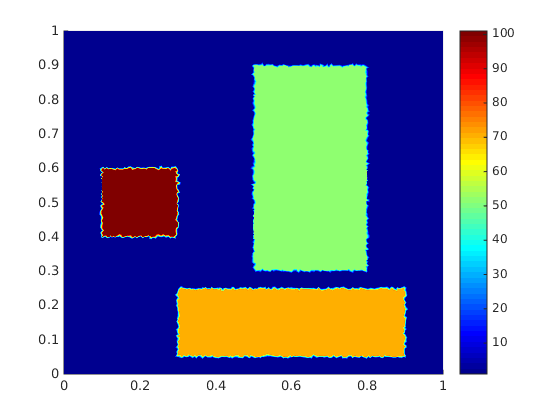
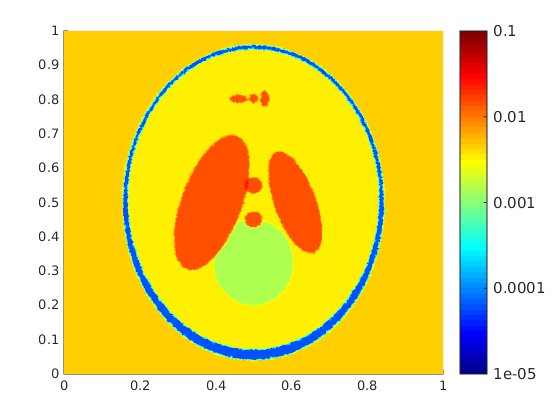
update many palces

diff --git a/demo.m b/demo.m
@@ -1,12 +1,13 @@
 %% Parameters
 nodes = [0 1 1 0;0 0 1 1];
-femm_opt = struct('deg', 1, 'qdeg',4, 'min_area', 1e-4, 'edge', nodes);
+femm_opt = struct('deg', 1, 'qdeg',4, 'min_area', 2e-5, 'edge', nodes);
 opt = struct('femm_opt', femm_opt, 'reg', 1e-4, 'beta', 0.02);
 
 % Acousto-Eletric-Modulation object.
 aem_obj = aem(opt);
 
 noise = (2 * rand(aem_obj.cache.n, 2) - 1);
+
 
 
 %% MAIN PROGRAM
@@ -21,21 +22,37 @@ if OPTIMIZE
     [v2_new, v2_new_bd, ~] = selectNeumann(aem_obj, v1, @neumann2);% compute the suitable v2 instead of prescribed one.
     v2_new = v2_new - mean(v2_new);                                % project to the subspace.
     [v1_new, v1_new_bd, ~] = selectNeumann(aem_obj, v2_new, @neumann); % compute the suitable v1 instead of prescribed one.
-    v1_new = v1_new - mean(v1_new);                                % project to the subspace.
+    v1_new = v1_new - mean(v1_new);        
+    
+    v1_new = v1_new / norm(v1_new_bd);
+    v1_new_bd = v1_new_bd/norm(v1_new_bd);
+    
+    v2_new = v2_new / norm(v2_new_bd);
+    v2_new_bd = v2_new_bd/norm(v2_new_bd);
+    
+    % project to the subspace.
  
     iter = 0;
-    while norm(v1_new - v1)/norm(v1) > 1e-2 && iter < MAXITER
+    while norm(v1_new - v1)/norm(v1) > 1e-4 && iter < MAXITER
         
         iter = iter + 1;
         v1 = v1_new;
         
         [v2_new, v2_new_bd, ~] = selectNeumann(aem_obj, v1, v2_new_bd); % compute the suitable v2 instead of prescribed one.
-        v2_new = v2_new - mean(v2_new);                                 % project to the subspace.
+        v2_new = v2_new - mean(v2_new); 
+
+        v1_new_bd = v1_new_bd/norm(v1_new_bd);                          % project to the subspace.
+        
         [v1_new, v1_new_bd, ~] = selectNeumann(aem_obj, v2_new, v1_new_bd); % compute the suitable v1 instead of prescribed one.
         v1_new = v1_new - mean(v1_new);                                 % project to the subspace.
-    
+        
+        v1_new = v1_new / norm(v1_new_bd);
+        v1_new_bd = v1_new_bd/norm(v1_new_bd);
+
+        v2_new = v2_new / norm(v2_new_bd);
+        v2_new_bd = v2_new_bd/norm(v2_new_bd);
+           
     end
-    
     
     v1g = aem_obj.gradient(v1_new);
     m1 = aem_obj.measurement_from_grad(v1g);  
@@ -73,6 +90,10 @@ if all(abs(system_det) < 1e30)
 else
     fprintf('The system fails to be stably solved.\n');
 end
+
+
+% figure(2);
+% aem_obj.plot(aem_obj.parameter.sigma);
 
 % Reconstruct the current J0
 if flag

diff --git a/boundary/selectNeumann.m b/boundary/selectNeumann.m
@@ -3,14 +3,14 @@ function [v2, x, fval] = selectNeumann(obj, v1, neumann_bc)
 n = obj.cache.n;
 edge_nodes = unique(obj.model.space.edges);
 if isempty(obj.cache.t)
-    obj.cache.t = (obj.cache.A - 1E-6*speye(n))\ obj.cache.e(:, edge_nodes);
+    obj.cache.t = (obj.cache.A - 1E-8*speye(n))\ obj.cache.e(:, edge_nodes);
 end
 
 m = size(obj.cache.t, 2);
 T = (obj.cache.t)' * (obj.cache.s * v1);
 T = T * T';
 
-Q = T + 1E-8 * obj.cache.s(edge_nodes, edge_nodes); % add a small regularization.
+Q = T + 1e-10* obj.cache.s(edge_nodes, edge_nodes); % add a small regularization.
 f = zeros(m,1);
 c = 0;
 
@@ -26,13 +26,13 @@ if strcmp(v.Release, '(R2014b)')
     options = optimoptions(@fmincon,'Display', 'iter', 'Algorithm','interior-point',...
         'GradObj','on','GradConstr','on',...
         'Hessian', 'bfgs',...
-        'TolFun', 1e-6, 'TolX', 1e-8);
+        'TolFun', 1e-8, 'TolX', 1e-8);
 else
     
     options = optimoptions(@fmincon,'Display', 'iter','Algorithm','interior-point',...
         'SpecifyObjectiveGradient',true,'SpecifyConstraintGradient',true,...
         'HessianApproximation', 'bfgs' ,...
-        'TolFun', 1e-6, 'TolX', 1e-8);
+        'TolFun', 1e-8, 'TolX', 1e-8);
 
 end
 

diff --git a/utils/shepp_logan.m b/utils/shepp_logan.m
@@ -1,0 +1,46 @@
+function [ ret ] = shepp_logan( x, N, scale, shift)
+
+%ABSORPTIONFF Absorption coef for fluorescence material.
+%   x coordinate, vectorized.
+%   ret ~0.2
+if nargin < 2
+    N = 500;
+    scale = 0.1;
+    shift = 0.05;
+end
+
+[X,Y] =meshgrid(linspace(0,1, N));
+X = X(:);
+Y = Y(:);
+
+
+Bone = 6.25e-5;
+Grey = 3.334e-3;
+CSF  = 15.38e-3;
+White = 1.428e-3;
+Background = 4.3478e-3;
+%  Background = 0.1;
+
+
+coeff = [  (Bone - Background)   .69   .92    0     0     0   
+        (Grey - Bone)  .6624 .8740   0  -.0184   0
+        (CSF - Grey)  .1100 .3100  .22    0    -18
+        (CSF - Grey)  .1600 .4100 -.22    0     18
+        (White - Grey)  .2100 .2500   0    .35    0
+         (CSF - Grey)  .0460 .0460   0    .1     0
+         (CSF - Grey)  .0460 .0460   0   -.1     0
+         (CSF - Grey)  .0460 .0230 -.08  -.605   0 
+        (CSF - Grey)  .0230 .0230   0   -.606   0
+         (CSF - Grey)  .0230 .0460  .06  -.605   0   ];
+
+
+ph = phantom(coeff, N);
+
+% ph = imgaussian(ph, 20);
+
+F = scatteredInterpolant(X,Y,ph(:));
+ret = F(x(1,:), x(2,:)) * scale + shift;
+
+
+end
+

diff --git a/utils/derenzo.m b/utils/derenzo.m
@@ -1,0 +1,43 @@
+function [ ret ] = derenzo(x, scale ,contrast)
+    if nargin < 2
+        scale = 1.0;
+        contrast = 8;
+    end
+    
+    N = 500;
+
+    load('derenzo.mat', 'centroids');
+    load('derenzo.mat', 'radius');
+    
+    xmax = max(centroids(:, 1));
+    xmin = min(centroids(:, 1));
+    ymax = max(centroids(:, 2));
+    ymin = min(centroids(:, 2));
+
+    r = max(xmax - xmin, ymax - ymin) * 1.15;
+
+    centroids(:, 1) = (centroids(:, 1) - xmin*1.2) / r;
+    centroids(:, 2) = (centroids(:, 2) - ymin*1.2) / r;
+
+    
+    [X,Y] =meshgrid(linspace(0,1, N));
+    radius = radius / r;
+
+    ret = scale * ones(size(X));
+
+    for i = 1:size(centroids, 1)
+        ret = ret + contrast *radius(i)* ((X - centroids(i, 1)).^2 + (Y - centroids(i, 2)).^2 < 2*radius(i)^2);
+    end
+    
+    
+%     ret = imgaussian(ret, 4);
+    
+    
+    X = X(:);
+    Y = Y(:);
+    F = scatteredInterpolant(X,Y,ret(:));
+    ret = F(x(1,:), x(2,:));
+    
+end
+
+

diff --git a/@aem/aem.m b/@aem/aem.m
@@ -211,6 +211,20 @@ classdef aem < handle
             trisurf(obj.model.space.elems(1:3,:)', ...
                 obj.model.space.nodes(1,:), obj.model.space.nodes(2,:), ...
                 f);colormap jet;view(2);colorbar;shading interp;
+            
+            
+        end
+        
+                
+        function logplot(obj, f)
+            trisurf(obj.model.space.elems(1:3,:)', ...
+                obj.model.space.nodes(1,:), obj.model.space.nodes(2,:), ...
+                log(f));colormap jet;view(2);shading interp;
+            
+            c=[1e-5  1e-4  1e-3  1e-2 1e-1];
+            caxis(log([c(1) c(length(c))]));
+            colorbar('FontSize',11,'YTick',log(c),'YTickLabel',c);
+            
         end
     end
     

diff --git a/utils/conductivity.m b/utils/conductivity.m
@@ -1,8 +1,15 @@
 function [ret] = conductivity(x)
 
-ret = 1 + 50 * (x(1,:) > 0.5).*(x(1,:) < 0.8).* (x(2,:) > 0.3) .* (x(2,:) < 0.9)+...
-100 * (x(1,:) > 0.1).*(x(1,:) < 0.3).* (x(2,:) > 0.4) .* (x(2,:) < 0.6) +...
-70 * (x(1,:) > 0.3).*(x(1,:) < 0.9).* (x(2,:) > 0.05) .* (x(2,:) < 0.25);
+% ret = 1 + 50 * (x(1,:) > 0.5).*(x(1,:) < 0.8).* (x(2,:) > 0.3) .* (x(2,:) < 0.9)+...
+% 100 * (x(1,:) > 0.1).*(x(1,:) < 0.3).* (x(2,:) > 0.4) .* (x(2,:) < 0.6) +...
+% 70 * (x(1,:) > 0.3).*(x(1,:) < 0.9).* (x(2,:) > 0.05) .* (x(2,:) < 0.25);
+
+Background = 4.3478e-3;
+
+
+% Background = 0.1;
+
+ret = shepp_logan( x, 500, 1, 0) + Background;
                               
 end
 

diff --git a/utils/current_func.m b/utils/current_func.m
@@ -1,13 +1,11 @@
 function [ ret ] = current_func( x )
 
 
-
-
 % ret1 = 0.1 + 0.02 * cos(2 * x(1,:)) .* cos(2 * x(2,:));
 % ret2 = 0.1 + 0.02 * cos(4 * (x(1,:).^2 + x(2,:).^2));
 % output is 2 x N matrix
-ret = [sin(2 * pi *  x(1,:)) .* sin(2 * pi *  x(2,:) ); ...
-    sin(4 * pi *  x(1,:)) .* sin(4 * pi *  x(2,:) )]; % vanishes on boundary
+ret = [derenzo(flipud(1.25 * (x-0.5) + 0.5), 0.0, 16); ...
+    derenzo(1.45 * (x-0.5) + 0.5, 0.0, 8)]; % vanishes on boundary
 
 
 

diff --git a/utils/neumann.m b/utils/neumann.m
@@ -1,8 +1,10 @@
 function [ val ] = neumann( x )
 % A Neumann boundary function
 
-val = (1 .* (x(1,:) == 1)) + (-1 * (x(1,:) == 0)) + ...
-    (0 * (x(2,:) == 0)) + (0* (x(2,:) == 1));
+theta = 1* pi/4;
+% cos theta, sin theta
+
+val = (cos(theta)* (x(1,:) == 1)) + (-cos(theta) .* (x(1,:) == 0)) + ...
+    (-sin(theta) * (x(2,:) == 0)) + (sin(theta) * (x(2,:) == 1));
 
 end
-

diff --git a/utils/neumann2.m b/utils/neumann2.m
@@ -1,7 +1,8 @@
 function [ val ] = neumann2( x )
 % Another Neumann boundary function
 
-val = (0.2 * (x(1,:) == 1)) + (0.3 * (x(1,:) == 0)) + ...
-    (1 * (x(2,:) == 0)) + (-0.5 * (x(2,:) == 1));
+theta = 1.5 * pi/4;
+val = (cos(theta)* (x(1,:) == 1)) + (-cos(theta) .* (x(1,:) == 0)) + ...
+    (-sin(theta) * (x(2,:) == 0)) + (sin(theta) * (x(2,:) == 1));
 
 end
